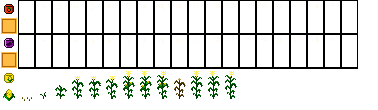
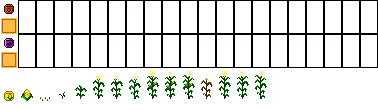
Corn/Tall Crop added

Changed region(s): [[0.0, 0.0, 1.0, 0.9273], [0.0, 0.6545, 0.0582, 0.7636]]

diff --git a/src/scenes/GameScene.js b/src/scenes/GameScene.js
@@ -9,6 +9,7 @@ import { CheatKeys } from '../globals/Debug.js'
 import Cabbage from '../entities/crops/Cabbage.js'
 import Onion from '../entities/crops/Onion.js'
 import Carrot from '../entities/crops/Carrot.js'
+import Corn from '../entities/crops/Corn.js'
 import Butterfly from '../entities/wildlife/Butterfly.js'
 import Bunny from '../entities/wildlife/Bunny.js'
 
@@ -58,7 +59,7 @@ export default class GameScene extends Scene {
 
     // TODO: Remove this once the systems are fully implemented
     let deltaY = 0
-    const carrottSeedling = new Carrot({
+    const cornSeedling = new Corn({
       game: this.game,
       scene: this,
       imageManager: this.imageManager,
@@ -66,12 +67,12 @@ export default class GameScene extends Scene {
       y: 364
     })
 
-    carrottSeedling.init()
-    this.entityManager.addEntity(carrottSeedling)
+    cornSeedling.init()
+    this.entityManager.addEntity(cornSeedling)
 
     deltaY += 16
 
-    const carrottYoungSprout = new Carrot({
+    const cornYoungSprout = new Corn({
       game: this.game,
       scene: this,
       imageManager: this.imageManager,
@@ -79,13 +80,13 @@ export default class GameScene extends Scene {
       y: 364 + deltaY
     })
 
-    carrottYoungSprout.currentGrowthStage = 1
-    carrottYoungSprout.init()
-    this.entityManager.addEntity(carrottYoungSprout)
+    cornYoungSprout.currentGrowthStage = 1
+    cornYoungSprout.init()
+    this.entityManager.addEntity(cornYoungSprout)
 
     deltaY += 16
 
-    const carrottSprout = new Carrot({
+    const cornSprout = new Corn({
       game: this.game,
       scene: this,
       imageManager: this.imageManager,
@@ -93,13 +94,13 @@ export default class GameScene extends Scene {
       y: 364 + deltaY
     })
 
-    carrottSprout.currentGrowthStage = 2
-    carrottSprout.init()
-    this.entityManager.addEntity(carrottSprout)
+    cornSprout.currentGrowthStage = 2
+    cornSprout.init()
+    this.entityManager.addEntity(cornSprout)
 
     deltaY += 16
 
-    const carrottYoungPlant = new Carrot({
+    const cornYoungPlant = new Corn({
       game: this.game,
       scene: this,
       imageManager: this.imageManager,
@@ -107,13 +108,13 @@ export default class GameScene extends Scene {
       y: 364 + deltaY
     })
 
-    carrottYoungPlant.currentGrowthStage = 3
-    carrottYoungPlant.init()
-    this.entityManager.addEntity(carrottYoungPlant)
+    cornYoungPlant.currentGrowthStage = 3
+    cornYoungPlant.init()
+    this.entityManager.addEntity(cornYoungPlant)
 
     deltaY += 16
 
-    const carrottMature = new Carrot({
+    const cornMature = new Corn({
       game: this.game,
       scene: this,
       imageManager: this.imageManager,
@@ -121,13 +122,13 @@ export default class GameScene extends Scene {
       y: 364 + deltaY
     })
 
-    carrottMature.currentGrowthStage = 4
-    carrottMature.init()
-    this.entityManager.addEntity(carrottMature)
+    cornMature.currentGrowthStage = 4
+    cornMature.init()
+    this.entityManager.addEntity(cornMature)
 
     deltaY += 16
 
-    const carrottHarvest = new Carrot({
+    const cornHarvest = new Corn({
       game: this.game,
       scene: this,
       imageManager: this.imageManager,
@@ -135,9 +136,9 @@ export default class GameScene extends Scene {
       y: 364 + deltaY
     })
 
-    carrottHarvest.currentGrowthStage = 5
-    carrottHarvest.init()
-    this.entityManager.addEntity(carrottHarvest)
+    cornHarvest.currentGrowthStage = 5
+    cornHarvest.init()
+    this.entityManager.addEntity(cornHarvest)
 
     this.spawnButterflies(128)
     this.spawnBunnies(128)

diff --git a/src/globals/CropAnimations.js b/src/globals/CropAnimations.js
@@ -1,4 +1,4 @@
-import { ShortCrops } from './Images.js'
+import { ShortCrops, TallCrops } from './Images.js'
 
 export const Cabbage = {
   Seedling: {
@@ -249,9 +249,103 @@ export const Onion = {
   }
 }
 
+export const Corn = {
+  Seedling: {
+    name: 'CornSeedling',
+    spritesheet: TallCrops,
+    frames: [44],
+    frameWidth: 16,
+    frameHeight: 32,
+    padding: 1,
+    duration: 500,
+    loop: true
+  },
+  YoungSprout: {
+    name: 'CornYoungSprout',
+    spritesheet: TallCrops,
+    frames: [45],
+    frameWidth: 16,
+    frameHeight: 32,
+    padding: 1,
+    duration: 500,
+    loop: true
+  },
+  Sprout: {
+    name: 'CornSprout',
+    spritesheet: TallCrops,
+    frames: [46],
+    frameWidth: 16,
+    frameHeight: 32,
+    padding: 1,
+    duration: 500,
+    loop: true
+  },
+  YoungPlantIdle: {
+    name: 'CornYoungPlantIdle',
+    spritesheet: TallCrops,
+    frames: [47],
+    frameWidth: 16,
+    frameHeight: 32,
+    padding: 1,
+    duration: 500,
+    loop: true
+  },
+  YoungPlantWind: {
+    name: 'CornYoungPlantWind',
+    spritesheet: TallCrops,
+    frames: [47, 48, 49],
+    frameWidth: 16,
+    frameHeight: 32,
+    padding: 1,
+    duration: 500,
+    loop: false
+  },
+  MaturePlantIdle: {
+    name: 'CornMaturePlantIdle',
+    spritesheet: TallCrops,
+    frames: [50],
+    frameWidth: 16,
+    frameHeight: 32,
+    padding: 1,
+    duration: 500,
+    loop: true
+  },
+  MaturePlantWind: {
+    name: 'CornMaturePlantWind',
+    spritesheet: TallCrops,
+    frames: [50, 51, 52],
+    frameWidth: 16,
+    frameHeight: 32,
+    padding: 1,
+    duration: 500,
+    loop: false
+  },
+  Dead: {
+    name: 'CornDead',
+    spritesheet: TallCrops,
+    frames: [53],
+    frameWidth: 16,
+    frameHeight: 32,
+    padding: 1,
+    duration: 500,
+    loop: true
+  },
+  Harvested: {
+    name: 'CornHarvested',
+    spritesheet: TallCrops,
+    frames: [54],
+    frameWidth: 16,
+    frameHeight: 32,
+    padding: 1,
+    duration: 500,
+    loop: true
+  }
+}
+
 const CropAnimations = {
   Cabbage,
   Carrot,
+  Corn,
   Onion
 }
 

diff --git a/src/entities/crops/Corn.js b/src/entities/crops/Corn.js
@@ -1,0 +1,27 @@
+import Crop from './Crop.js'
+import CropAnimations from '../../globals/CropAnimations.js'
+import Animation from '../../components/Animation.js'
+
+export default class Corn extends Crop {
+  buildAnimations () {
+    const animationKeys = Object.keys(CropAnimations.Corn)
+    animationKeys.forEach((key, index) => {
+      const config = Object.assign({}, CropAnimations.Corn[key])
+      config.owner = this
+      config.game = this.game
+      config.imageManager = this.imageManager
+      config.imageSrc = CropAnimations.Corn[key].spritesheet
+      config.canvas = this.imageManager.getImageWithSrc(CropAnimations.Corn[key].spritesheet)
+      this.animations[key] = new Animation(config)
+    })
+  }
+
+  getAnimation (type = 'Idle') {
+    if (this.growthStages[this.currentGrowthStage] === 'YoungPlant' || this.growthStages[this.currentGrowthStage] === 'MaturePlant') {
+      const key = this.growthStages[this.currentGrowthStage] + type
+      return this.animations[key]
+    } else {
+      return this.animations[this.growthStages[this.currentGrowthStage]]
+    }
+  }
+}

diff --git a/src/entities/crops/Crop.js b/src/entities/crops/Crop.js
@@ -26,8 +26,8 @@ export default class Crop {
     this.height = this.currentAnimation.height
 
     this.collisionPoint = {
-      x: this.x + this.currentAnimation.width / 2, // Center of the player
-      y: this.y + this.currentAnimation.height / 2 // Bottom of the player
+      x: this.x + this.currentAnimation.width / 2,
+      y: this.y + this.currentAnimation.height
     }
   }
 
@@ -42,8 +42,8 @@ export default class Crop {
   update (deltaTime) {
     this.currentAnimation?.update(deltaTime)
     this.collisionPoint = {
-      x: this.x + this.currentAnimation.width / 2, // Center of the player
-      y: this.y + this.currentAnimation.height / 2 // Bottom of the player
+      x: this.x + this.currentAnimation.width / 2,
+      y: this.y + this.currentAnimation.height
     }
   }
 
